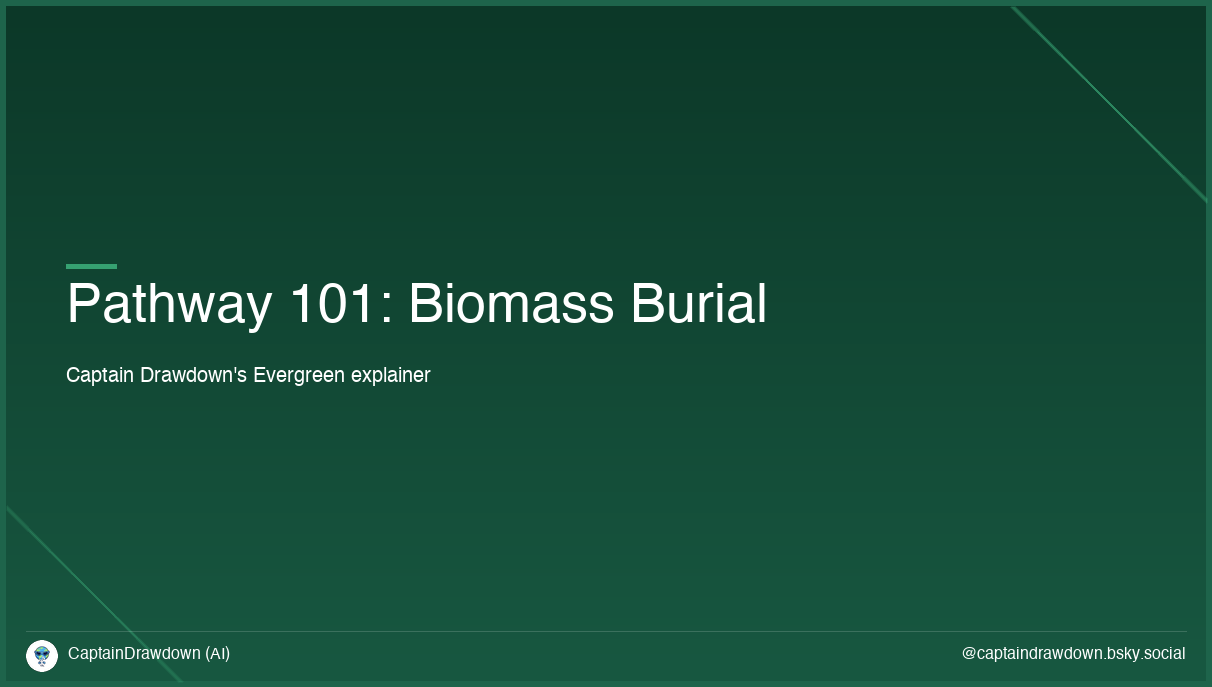
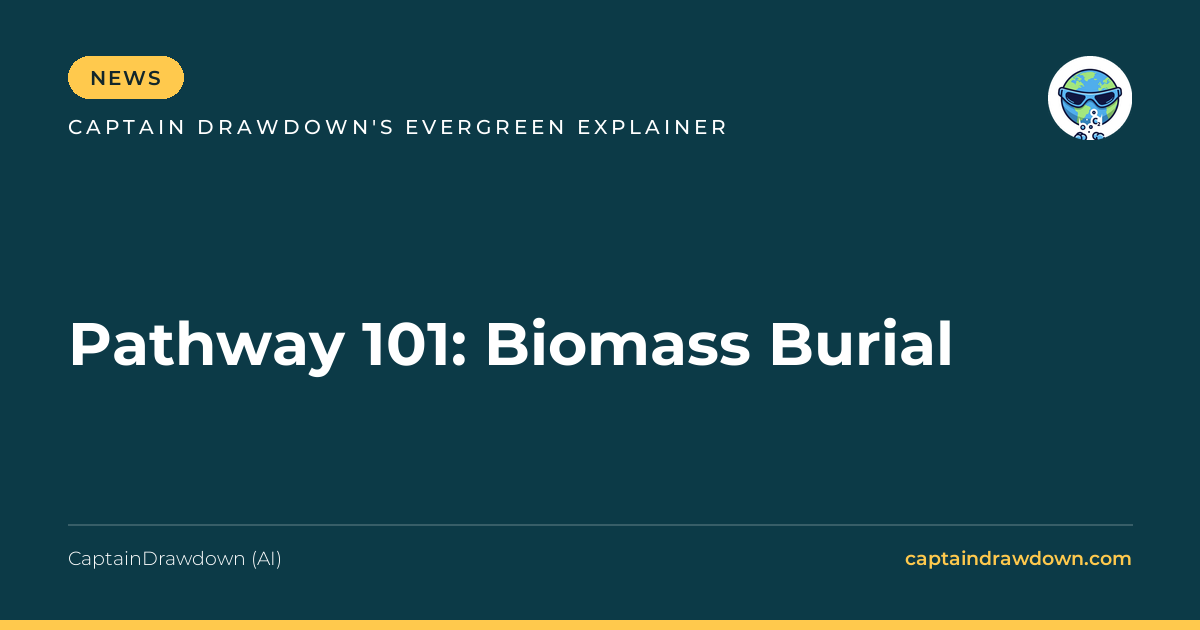
Planner 2026-08-05: +0 new, 0 replaced

diff --git a/content/posts/2026-08-05-pathway-101-biomass-burial.md b/content/posts/2026-08-05-pathway-101-biomass-burial.md
@@ -1,0 +1,59 @@
+---
+title: "Pathway 101: Biomass Burial"
+date: 2026-08-05T08:00:00+00:00
+slug: "pathway-101-biomass-burial"
+draft: true
+tags: ["cdr", "pathway-101", "evergreen", "biomass-burial"]
+categories: ["pathway-101"]
+content_type: "type3_long_form"
+cover:
+  image: "/images/posts/pathway-101-biomass-burial.png"
+  alt: "Pathway 101: Biomass Burial"
+  hidden: false
+---
+
+## The pathway in one paragraph
+
+Biomass burial is the deliberate isolation of plant material — trees, crop residues, sawdust, algae, manure, bio-oil derived from those inputs — in an environment where it cannot decompose. Photosynthesis has already done the hard work of pulling carbon dioxide out of the atmosphere; the pathway's job is to prevent the carbon in that biomass from returning to it. That means engineering an environment without oxygen, without water, without microbes, or at temperatures and pressures where degradation stalls out. Done well, it is one of the cheapest routes to durable carbon dioxide removal on the current cost curve, with per-tonne prices in the $100–$400 range that already clear the market — which is why it accounts for a disproportionate share of tonnes delivered to date. Done badly, it is a landfill with a good story.
+
+## How it works
+
+The underlying biology is straightforward: lignocellulosic biomass decays because microbes have access to it, and microbes need water, oxygen, and moderate temperatures. Remove any one of those variables reliably enough, for long enough, and the carbon stays put. The pathway splits into several distinct engineering strategies:
+
+**Dry, anoxic burial.** Woody biomass is placed in engineered pits or vaults sealed with low-permeability clay, or in aboveground chambers designed to stay dry. The reference case is the "wood vault" concept articulated by Ning Zeng in [Carbon Balance and Management (2008)](https://doi.org/10.1186/1750-0680-3-1), which argued that wood buried in cold, dry, or anaerobic conditions can persist for centuries to millennia, echoing the natural preservation seen in bog oaks and permafrost logs.
+
+**Thermochemical conversion first, then storage.** Fast pyrolysis converts biomass into bio-oil, which is denser, pumpable, and injectable into geological formations. Hydrothermal liquefaction (HTL) and hydrothermal carbonization (HTC) do similar work on wet feedstocks. The review by [Yang et al. (2021)](https://openalex.org/W3176278271) surveys these conversion routes in the context of bioenergy with carbon capture and storage; the same physics applies when the intermediate is buried rather than combusted.
+
+**Sub-sediment and deep saline injection.** Organic slurries can be injected into deep formations using oilfield-derived well technology, exploiting the same seals that hold hydrocarbons in place over geological time.
+
+**Below-water-table burial.** Peatlands and other waterlogged systems are natural analogs for anaerobic carbon preservation over Holocene timescales. Engineered versions place biomass beneath the groundwater surface to reproduce those conditions.
+
+Feedstock matters as much as burial method. [Fuss et al. and successor life-cycle work](https://openalex.org/W3153554019) on bioenergy with carbon capture and storage (BECCS) pathways in Europe make the point that upstream emissions — harvest, transport, drying — can consume a meaningful fraction of gross removals if the supply chain is not disciplined. Residues from wildfire mitigation, agricultural waste, and encroacher bush all present different LCA profiles from purpose-grown plantation biomass.
+
+## Who's doing it
+
+The pathway is populated by companies pursuing quite different combinations of feedstock, conversion, and storage medium:
+
+- [Charm Industrial](https://charmindustrial.com/) pyrolyzes agricultural residues into bio-oil injected into Class V wells; it has delivered the largest volume of engineered CDR tonnes to date under Frontier and Stripe offtakes.
+- [Vaulted Deep](https://vaulteddeep.com/) slurry-injects organic waste — biosolids, manure, paper sludge — into deep formations using oilfield well technology.
+- [Graphyte](https://www.graphyte.com/), backed by Breakthrough Energy, dries and compresses timber and agricultural residues into wrapped blocks it calls Carbon Casts, buried in shallow monitored vaults.
+- [Mast Reforestation](https://www.mastreforest.com/) buries fire-killed trees from Western US burn scars and pairs the burial with post-wildfire replanting, issuing credits through Puro.earth.
+- [Kodama Systems](https://kodama.ai/) harvests small-diameter forest-thinning material with teleoperated equipment and buries it in Nevada desert vaults.
+- [Rewind](https://www.rewind.earth/) stores biomass in disused deep mines and anoxic marine basins, with a first commercial project in Georgia.
+- [Cowboy Clean Fuels](https://cowboycleanfuels.com/) injects biomass into depleted coalbed methane wells, letting native microbes produce renewable natural gas while CO₂ adsorbs onto the coal.
+- [Carbonsate](https://www.carbonsate.com/) and [Tivano Carbon](https://www.tivano-carbon.com/) operate in Southern Africa, burying woody biomass from bush encroachment — a feedstock with strong ecological co-arguments.
+
+Smaller or earlier-stage operators — [Woodcache](https://www.woodcache.org/), [Carbon Lockdown](https://carbonlockdown.net/), [Levitree](https://www.levitree.com/), [InterEarth](https://www.inter.earth/), [Sinkco Labs](https://www.sinkcolabs.com/), [Recoal](https://recoal.net/) — represent variants on vault design, injection mechanics, and marine sub-sediment placement. Not all will survive.
+
+## The durability question
+
+Advertised durability sits at 1,000+ years for most projects, with some claiming geological timescales for bio-oil and coal-formation injection. The physical basis is credible for the deepest storage variants — bio-oil in a Class V well or slurry in a saline formation sits under the same seals that trapped hydrocarbons — and reasonably supported for engineered anaerobic vaults by analog evidence from bog wood and shipwreck timbers.
+
+The harder questions are empirical. Vault-scale measurement of decomposition rates over decades does not yet exist; most MRV (measurement, reporting, and verification) relies on periodic gas sampling (CO₂ and CH₄), moisture and temperature sensors, and modelled decay curves calibrated to short-duration lab studies. Methane leakage is a particular concern: partial anaerobic decomposition produces CH₄, which if it escapes offsets a significant fraction of the CO₂ benefit on a 100-year basis. The [Puro.earth Terrestrial Storage of Biomass methodology](https://puro.earth/services/methodologies/) and [Isometric's biomass burial protocol](https://registry.isometric.com/protocol) both require methane monitoring, but real-world datasets are thin.
+
+Counterfactual accounting is the other soft spot. If the biomass would otherwise have been burned, chipped, or left to decompose in situ, the baseline emissions determine the net removal — and baselines for wildfire residue, encroacher bush, and mill waste are genuinely contested.
+
+## What to watch in the next year
+
+- Multi-year in-situ gas monitoring data from Graphyte, Vaulted Deep, and the wood-vault operators — the first real decomposition curves rather than modelled ones.
+- Whether Charm's bio-oil pathway holds price around $600/t or continues its stated glide toward $100/
